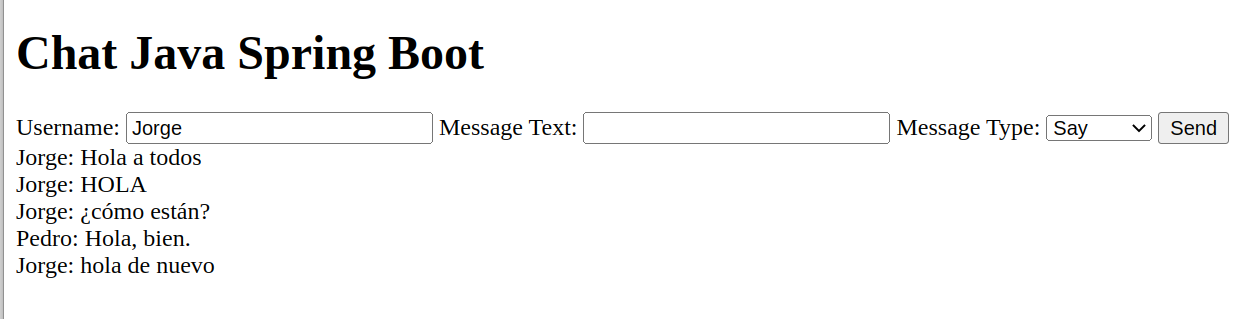
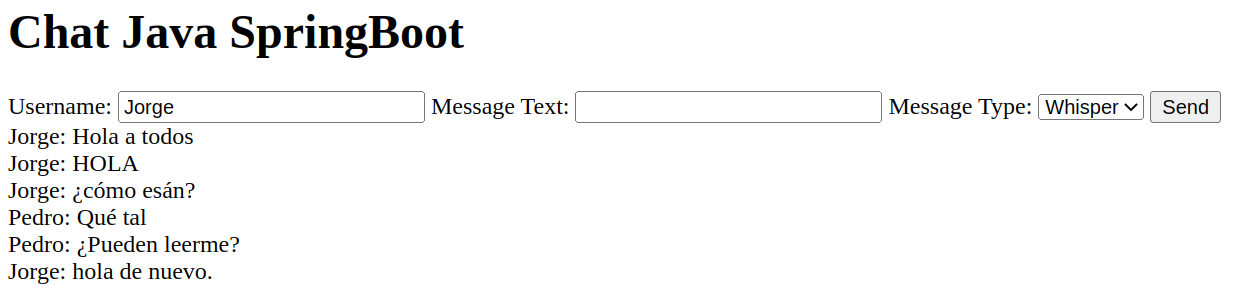
Se agregó README.md

Changed region(s): [[0.0, 0.0, 0.9976, 1.0], [0.4676, 0.4397, 0.717, 0.4691]]

diff --git a/src/main/resources/templates/chat.html b/src/main/resources/templates/chat.html
@@ -6,7 +6,7 @@
 </head>
 <body>
 
-<h1>Chat Java Spring Boot</h1>
+<h1>Chat Java SpringBoot</h1>
 
 <form th:object="${chaForm}" action="#" th:action="@{/chat}" method="POST">
     <label for="username">Username:</label>

diff --git a/README.md b/README.md
@@ -13,8 +13,6 @@
 
 ![Versión 1.0](./imgs/chat_v_1.0.png)
 
-<image src="./imgs/chat_v_1.0.png" alt="Versión 1.0" border="5px solid red"/>
-
 
 ### Puntos a resolver
 
